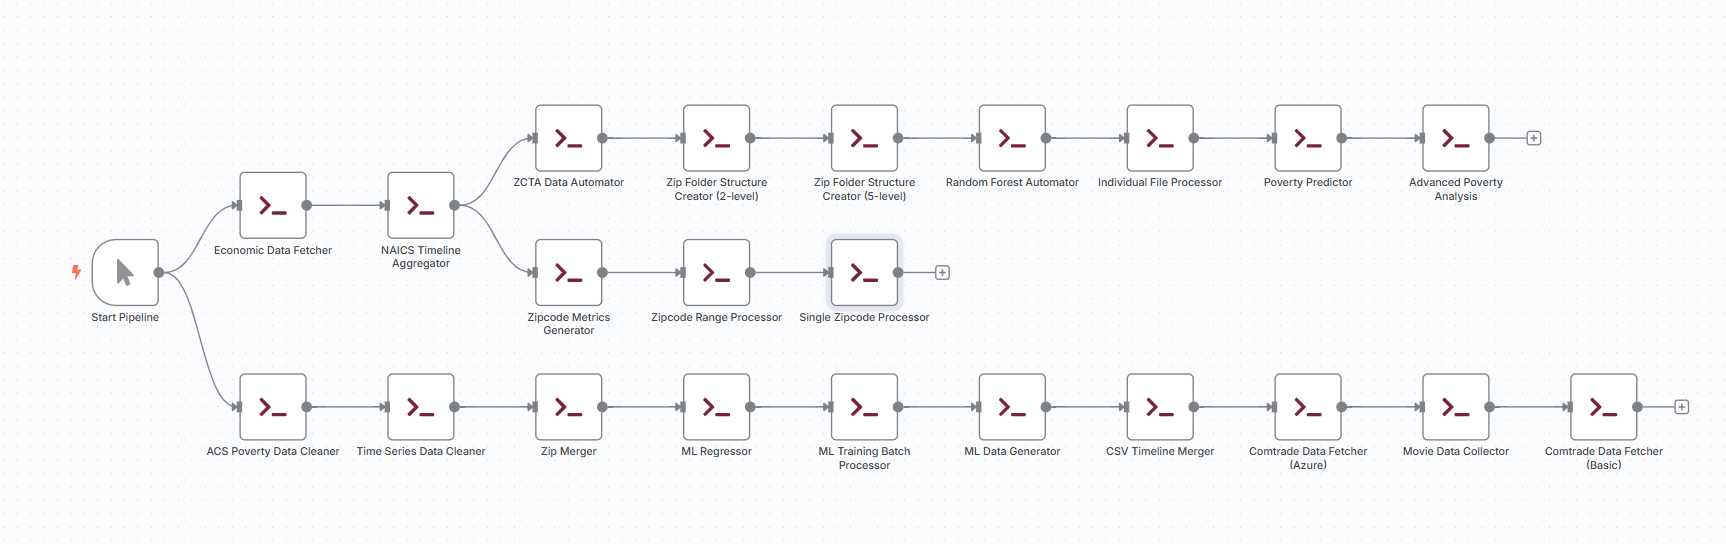
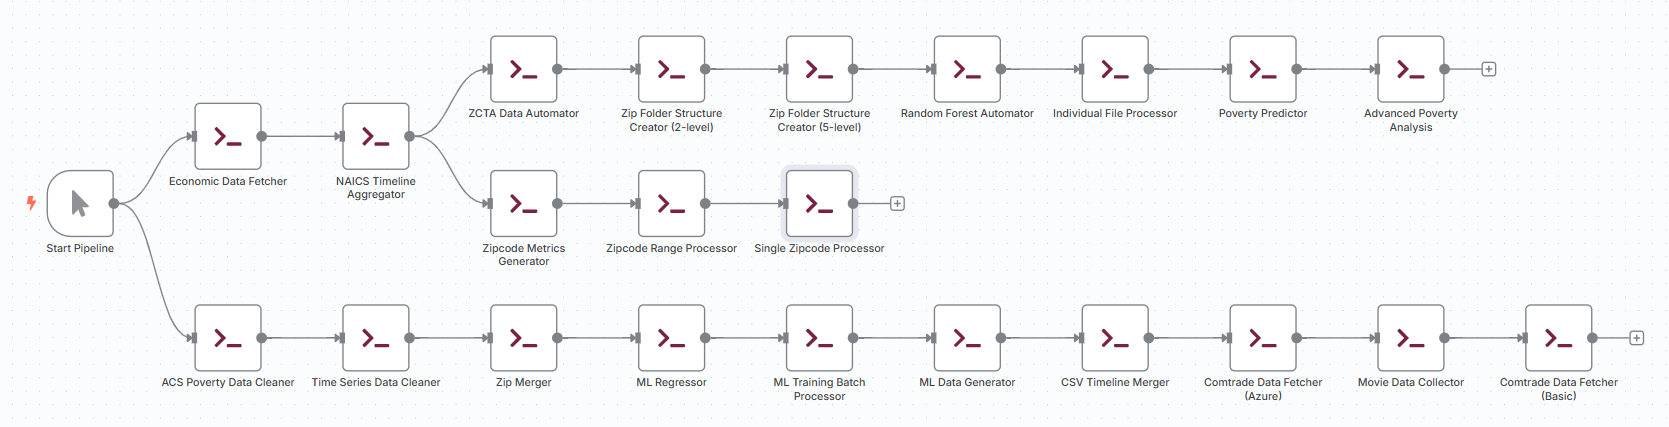
Move flowchart above columns

diff --git a/index.html b/index.html
@@ -55,7 +55,6 @@ ul li {
     background-color: #fff;
   }
 }
-
 .dark #sourcesDivColumn {
     background-color:#222; 
 }
@@ -64,6 +63,7 @@ ul li {
 }
 
 #topcolumns {
+    max-width: 100%;
     display: flex;
     align-items: stretch; /* Stretch columns to height of the tallest item */
 }
@@ -91,11 +91,26 @@ ul li {
 /* Optional: If you want specific column widths instead of equal flex */
 
 #sourcesDivColumn {
-    flex: 0 0 30%; /* 40% width, no grow/shrink */
+    flex: 0 0 30%; /* 30% width, no grow/shrink */
+    min-width: 0; /* Allow flex item to shrink below content size */
 }
 
 #readmeDivColumn {
-    flex: 0 0 70%; /* 60% width, no grow/shrink */
+    flex: 0 0 70%; /* 70% width, no grow/shrink */
+    min-width: 0; /* Allow flex item to shrink below content size */
+}
+
+@media (max-width: 799px) {
+    #lightbulb {
+        display: none;
+    }
+    #topcolumns {
+        display: block;
+    }
+    #sourcesDivColumn {
+        padding-left: 30px;
+        padding-right: 20px;
+    }
 }
 
 </style>
@@ -108,6 +123,10 @@ ul li {
 </head>
 
 <body>
+<div style="height:400px; max-height:400px; overflow-x:auto;">
+    <a href="img/n8n/nodes.png"><img src="img/n8n/nodes.png" style="height:100%;width:auto"></a>
+</div>
+
 <div id="topcolumns">
 
     <div id="sourcesDivColumn">
@@ -115,18 +134,17 @@ ul li {
     </div>
     <div id="readmeDivColumn">
 
-        <div>
-            <a href="img/n8n/nodes.png"><img src="img/n8n/nodes.png" style="width:100%"></a>
-        </div>
-
         <!--
-        <div class="showDesktop fullMobile" style="float:right !important;padding:10px;padding-top:30px; max-width:60px">
-            <img src="img/elements/bulb.png" style="width:60px;">
+        <div style="max-height:500px; overflow-x:auto;">
+            <a href="img/n8n/nodes.png"><img src="img/n8n/nodes.png" style="height:auto; display:block;"></a>
         </div>
         -->
 
         <br>
-        <div style="padding-left: 30px;padding-right: 20px;">
+        <div style="padding-left:30px;padding-right: 20px;">
+            <div id="lightbulb" class="showDesktop fullMobile" style="float:right !important; padding:30px 10px 10px 30px;max-width:150px">
+                <img src="img/elements/bulb.png" style="width:100%;">
+            </div>
     	   <div id="readmeDiv"></div>
         </div>
     </div>

diff --git a/README.md b/README.md
@@ -1,5 +1,7 @@
 # Data Pipeline
 
+[View Data Pipeline Nodes](../team/projects/#list=data-pipleline)
+
 [Our Community-Data](/community-data/) and [Community-Timelines](https://github.com/modelearth/community-timelines/) repos contain [state, county](industries/naics/) and [zip code data](/community-zipcodes/) generated for [Industry&nbsp;Supply-Chain IO&nbsp;Charts](https://model.earth/localsite/info/) and [Community Forecasting Timelines](timelines).
 
 [Our Industry Input-Output Charts](../io/charts/) pull from static json files containing [USEEIO API state data](https://github.com/ModelEarth/profile/tree/main/impacts/2020).
